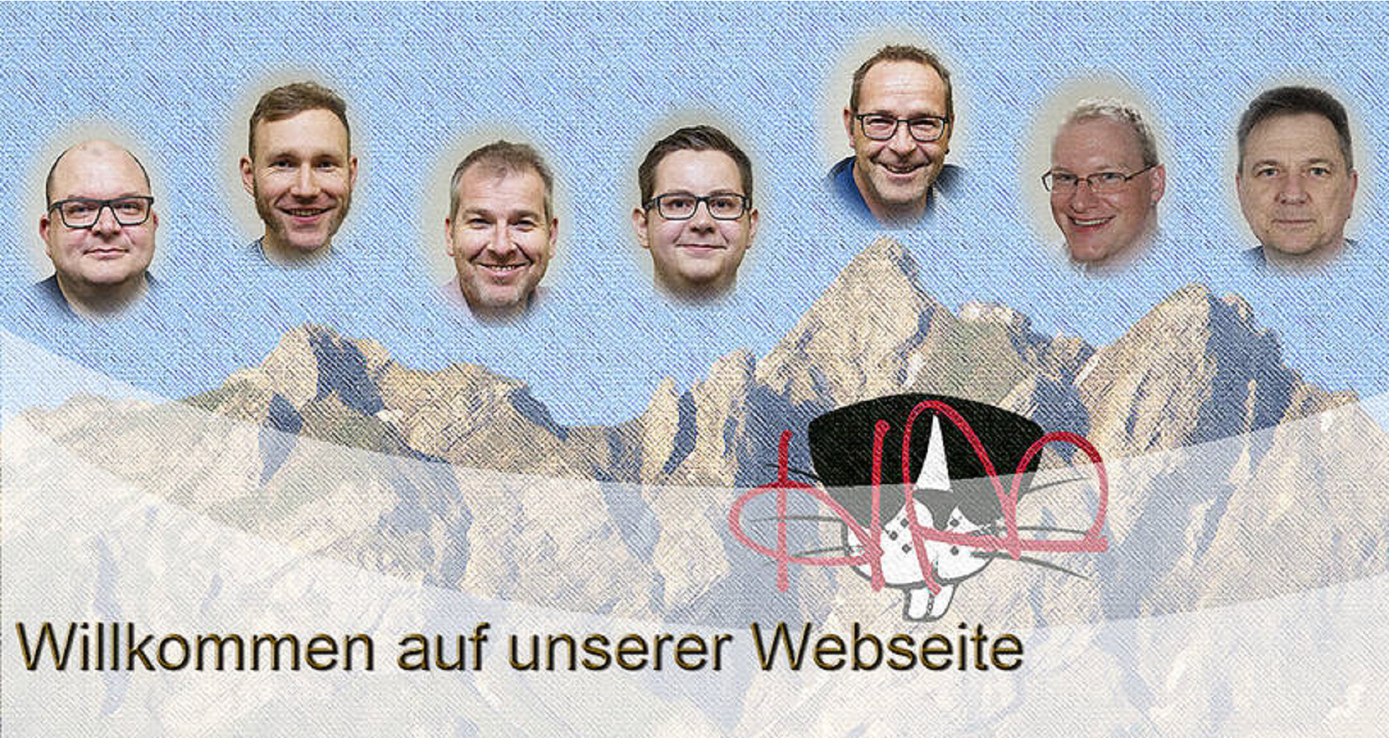
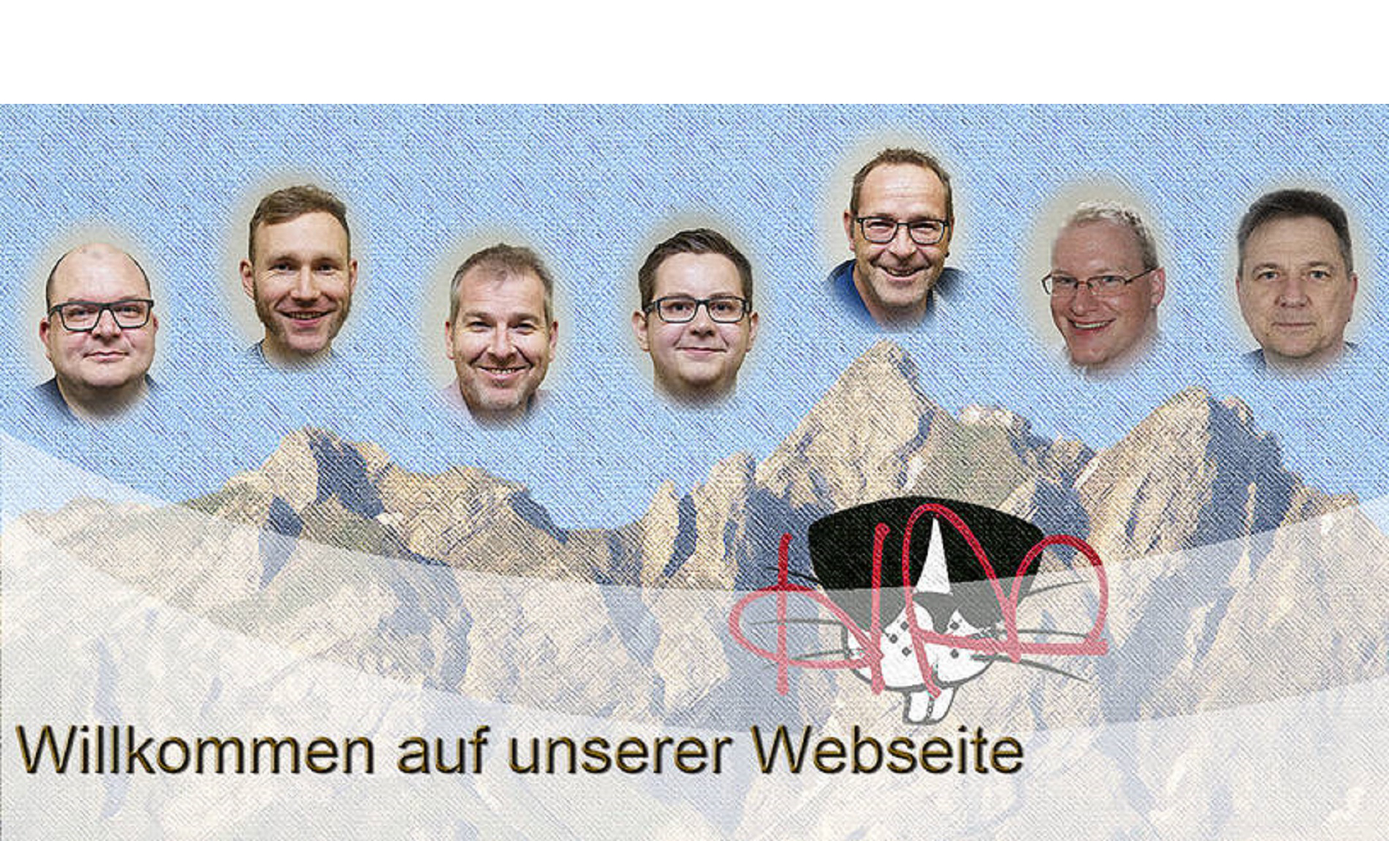
fix image and havbar

diff --git a/_sass/components/_navbar.scss b/_sass/components/_navbar.scss
@@ -1,73 +1,82 @@
 // Styling for the navbar
 #mainNav {
-  background-color: $gray-900;
-  .navbar-toggler {
-    font-size: 12px;
-    right: 0;
-    padding: 13px;
-    text-transform: uppercase;
-    color: white;
-    border: 0;
-    background-color: $primary;
-    @include heading-font;
-  }
-  .navbar-brand {
-    color: $primary;
-    @include script-font;
-    &.active,
-    &:active,
-    &:focus,
-    &:hover {
-      color: darken($primary, 10%);
-    }
-  }
-  .navbar-nav {
-    .nav-item {
-      .nav-link {
-        font-size: 90%;
-        font-weight: 400;
-        padding: 0.75em 0;
-        letter-spacing: 1px;
-        color: black;
+    background-color: $gray-900;
+    .navbar-toggler {
+        font-size: 12px;
+        right: 0;
+        padding: 13px;
+        text-transform: uppercase;
+        color: white;
+        border: 0;
+        background-color: $primary;
         @include heading-font;
-        &.active,
-        &:hover {
-          color: $primary;
-        }
-      }
     }
-  }
-}
-@media (min-width: 992px) {
-  #mainNav {
-    padding-top: 25px;
-    padding-bottom: 25px;
-    -webkit-transition: padding-top 0.3s, padding-bottom 0.3s;
-    -moz-transition: padding-top 0.3s, padding-bottom 0.3s;
-    transition: padding-top 0.3s, padding-bottom 0.3s;
-    border: none;
-    background-color: transparent;
     .navbar-brand {
-      font-size: 1.75em;
-      -webkit-transition: all 0.3s;
-      -moz-transition: all 0.3s;
-      transition: all 0.3s;
+        color: $primary;
+        @include script-font;
+        &.active,
+        &:active,
+        &:focus,
+        &:hover {
+            color: darken($primary, 10%);
+        }
     }
     .navbar-nav {
-      .nav-item {
-        .nav-link {
-          padding: 1.1em 1em !important;
+        .nav-item {
+            .nav-link {
+                font-size: 90%;
+                font-weight: 400;
+                padding: 0.75em 0;
+                letter-spacing: 1px;
+                color: black;
+                @include heading-font;
+                &.active,
+                &:hover {
+                    color: $primary;
+                }
+            }
         }
-      }
     }
-    &.navbar-shrink {
-      padding-top: 0;
-      padding-bottom: 0;
-      background-color: $gray-900;
-      .navbar-brand {
-        font-size: 1.25em;
-        padding: 12px 0;
-      }
+}
+
+@media (min-width: 992px) {
+    #mainNav {
+        padding-top: 25px;
+        padding-bottom: 25px;
+        -webkit-transition: padding-top 0.3s, padding-bottom 0.3s;
+        -moz-transition: padding-top 0.3s, padding-bottom 0.3s;
+        transition: padding-top 0.3s, padding-bottom 0.3s;
+        border: none;
+        background-color: transparent;
+        .navbar-brand {
+            font-size: 1.75em;
+            -webkit-transition: all 0.3s;
+            -moz-transition: all 0.3s;
+            transition: all 0.3s;
+        }
+        .navbar-nav {
+            .nav-item {
+                .nav-link {
+                    padding: 1.1em 1em !important;
+                }
+            }
+        }
+        &.navbar-shrink {
+            padding-top: 0;
+            padding-bottom: 0;
+            background-color: $gray-900;
+            color: white;
+            .navbar-brand {
+                font-size: 1.25em;
+                padding: 12px 0;
+            }
+            .navbar-nav {
+                .nav-item {
+                    .nav-link {
+                        color: white;
+                    }
+                }
+            }
+        }
     }
-  }
 }

diff --git a/_sass/layout/_masthead.scss b/_sass/layout/_masthead.scss
@@ -1,51 +1,52 @@
 // Styling for the masthead
 header.masthead {
-  height: 900px;
-  text-align: center;
-  color: white;
-  background-image: url("#{$header-image}");
-  background-repeat: no-repeat;
-  background-attachment: scroll;
-  background-position: center center;
-  background-size: cover;
-  .intro-text {
-    padding-top: 150px;
-    padding-bottom: 100px;
-    .intro-lead-in {
-      font-size: 22px;
-      font-style: italic;
-      line-height: 22px;
-      margin-bottom: 25px;
-      @include serif-font;
-    }
-    .intro-heading {
-      font-size: 50px;
-      font-weight: 700;
-      line-height: 50px;
-      margin-bottom: 25px;
-      @include heading-font;
-    }
-  }
-}
-@media (min-width: 768px) {
-  header.masthead {
+    height: 1000px;
+    text-align: center;
+    color: white;
+    background-image: url("#{$header-image}");
+    background-repeat: no-repeat;
+    background-attachment: scroll;
+    background-position: center center;
+    background-size: cover;
     .intro-text {
-      padding-top: 300px;
-      padding-bottom: 200px;
-      .intro-lead-in {
-        font-size: 40px;
-        font-style: italic;
-        line-height: 40px;
-        margin-bottom: 25px;
-        @include serif-font;
-      }
-      .intro-heading {
-        font-size: 75px;
-        font-weight: 700;
-        line-height: 75px;
-        margin-bottom: 50px;
-        @include heading-font;
-      }
+        padding-top: 150px;
+        padding-bottom: 100px;
+        .intro-lead-in {
+            font-size: 22px;
+            font-style: italic;
+            line-height: 22px;
+            margin-bottom: 25px;
+            @include serif-font;
+        }
+        .intro-heading {
+            font-size: 50px;
+            font-weight: 700;
+            line-height: 50px;
+            margin-bottom: 25px;
+            @include heading-font;
+        }
     }
-  }
+}
+
+@media (min-width: 768px) {
+    header.masthead {
+        .intro-text {
+            padding-top: 300px;
+            padding-bottom: 200px;
+            .intro-lead-in {
+                font-size: 40px;
+                font-style: italic;
+                line-height: 40px;
+                margin-bottom: 25px;
+                @include serif-font;
+            }
+            .intro-heading {
+                font-size: 75px;
+                font-weight: 700;
+                line-height: 75px;
+                margin-bottom: 50px;
+                @include heading-font;
+            }
+        }
+    }
 }
